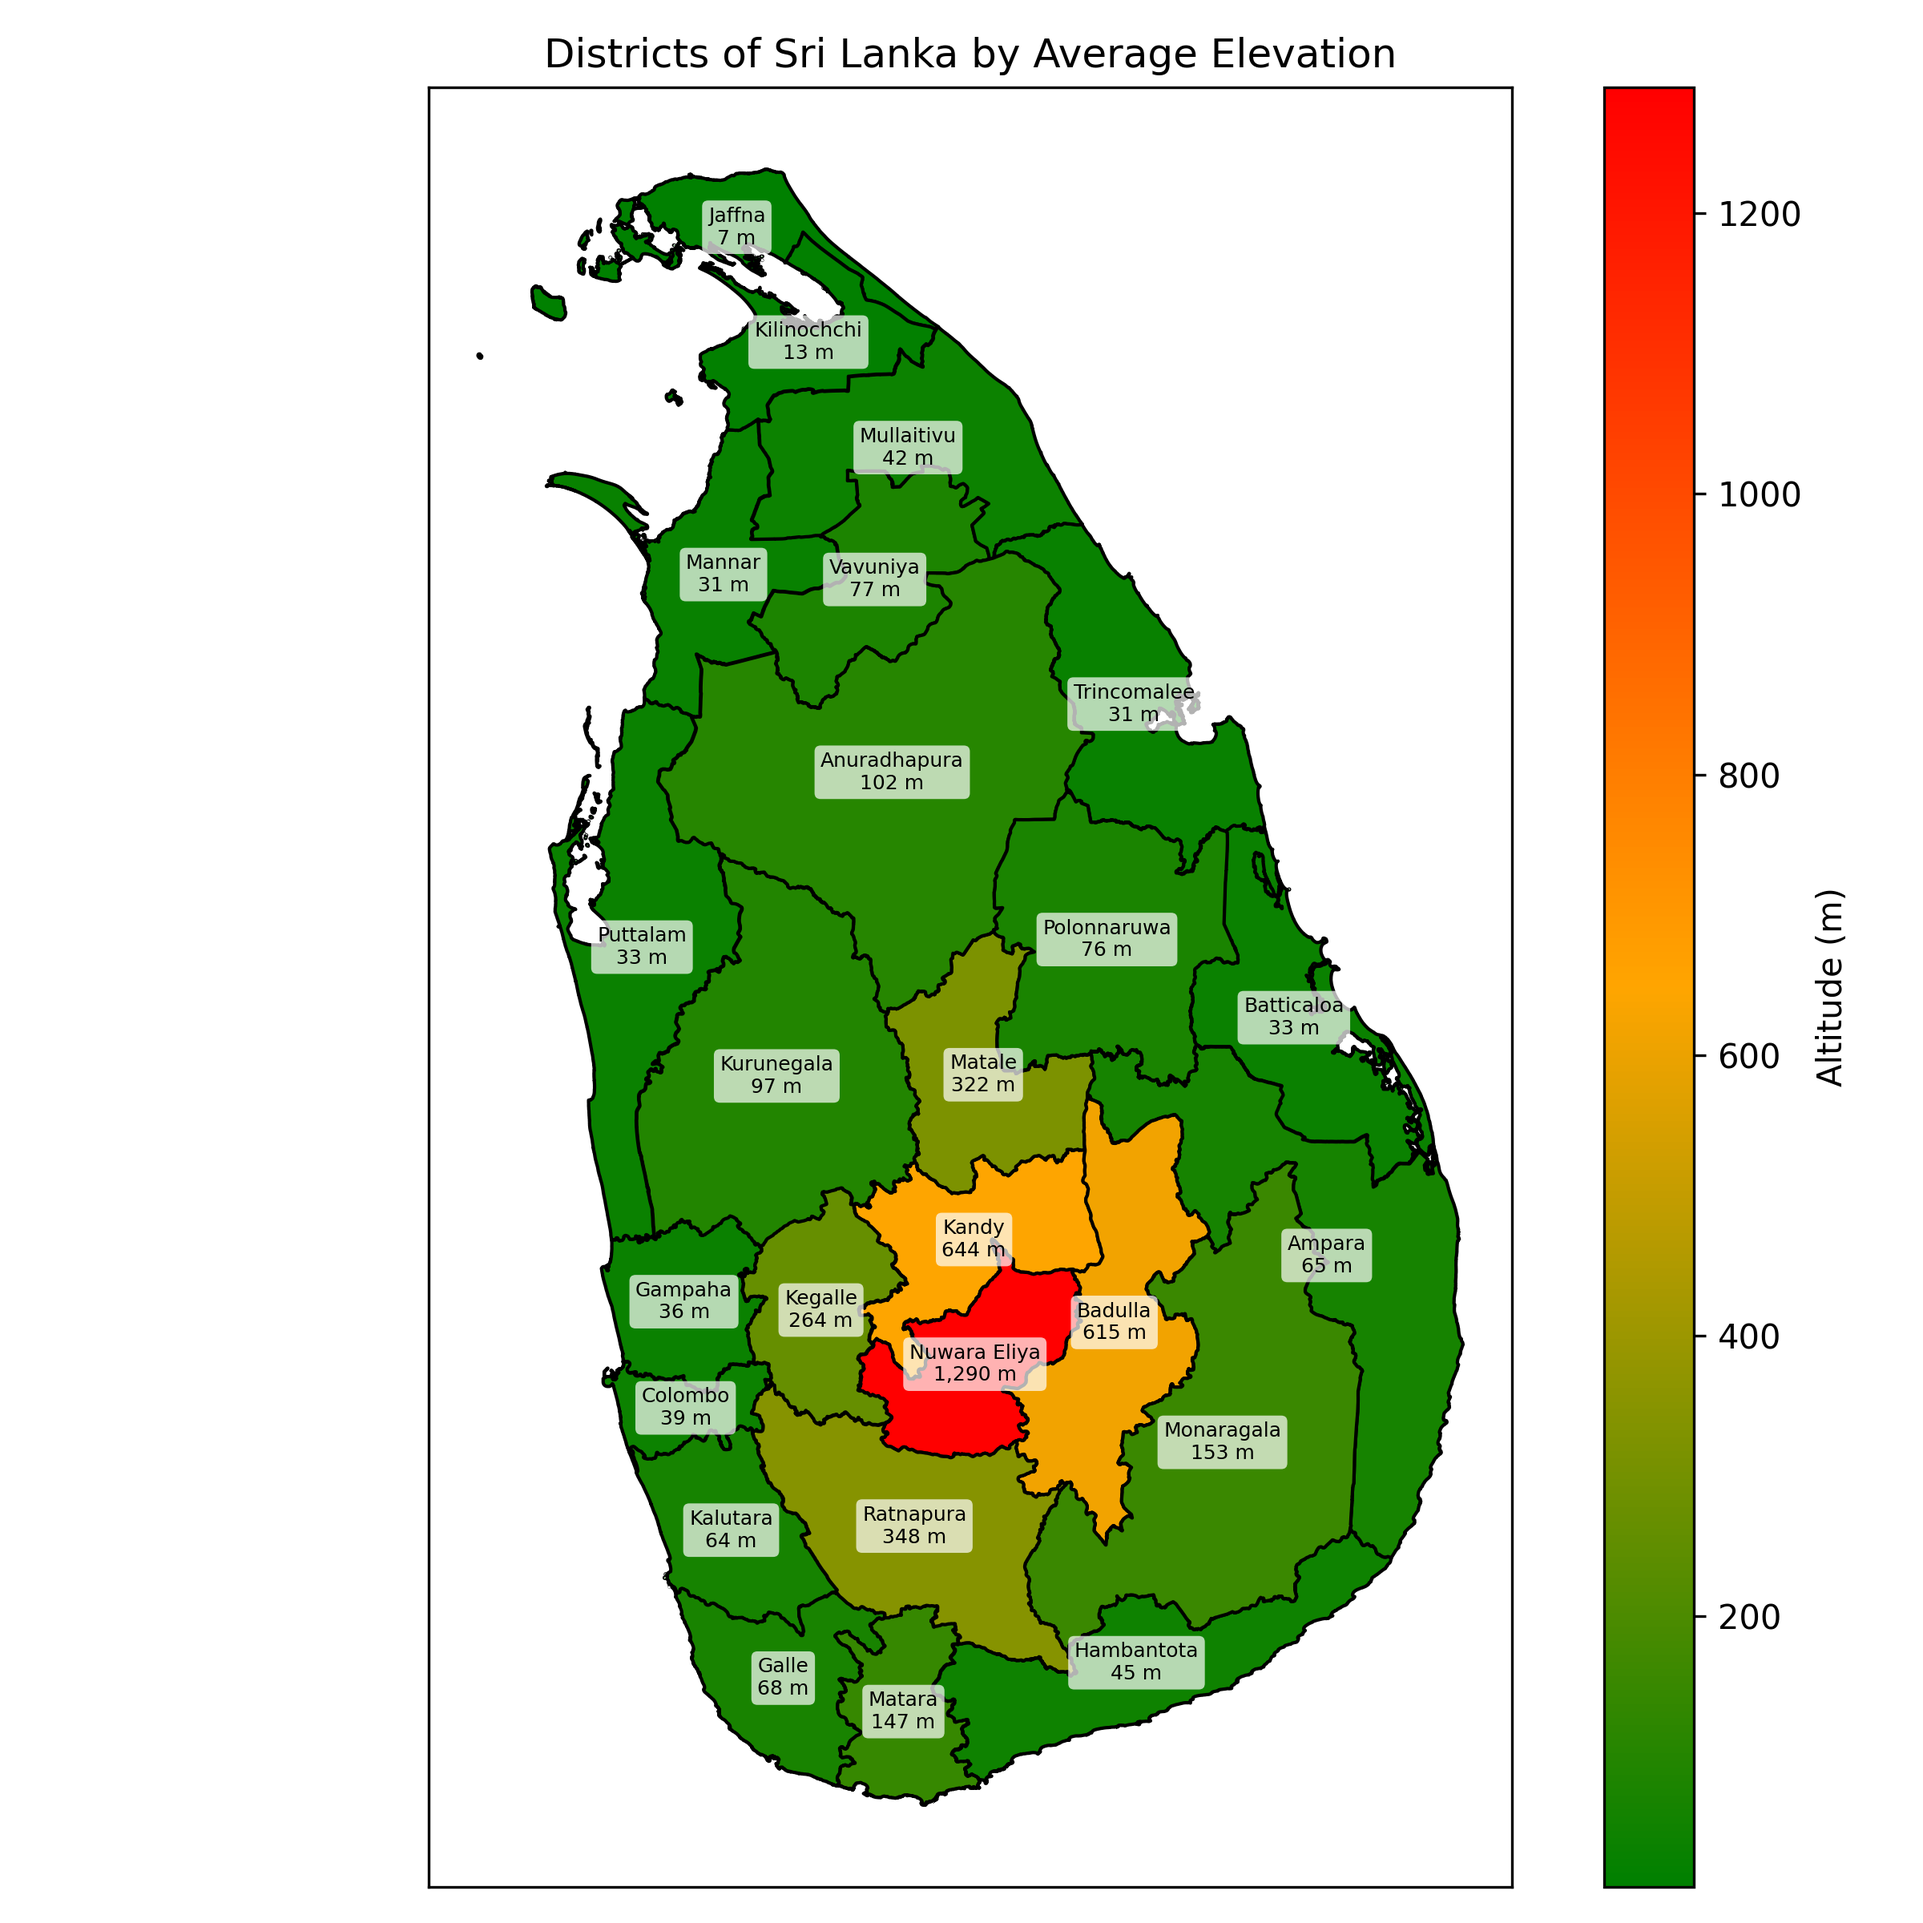
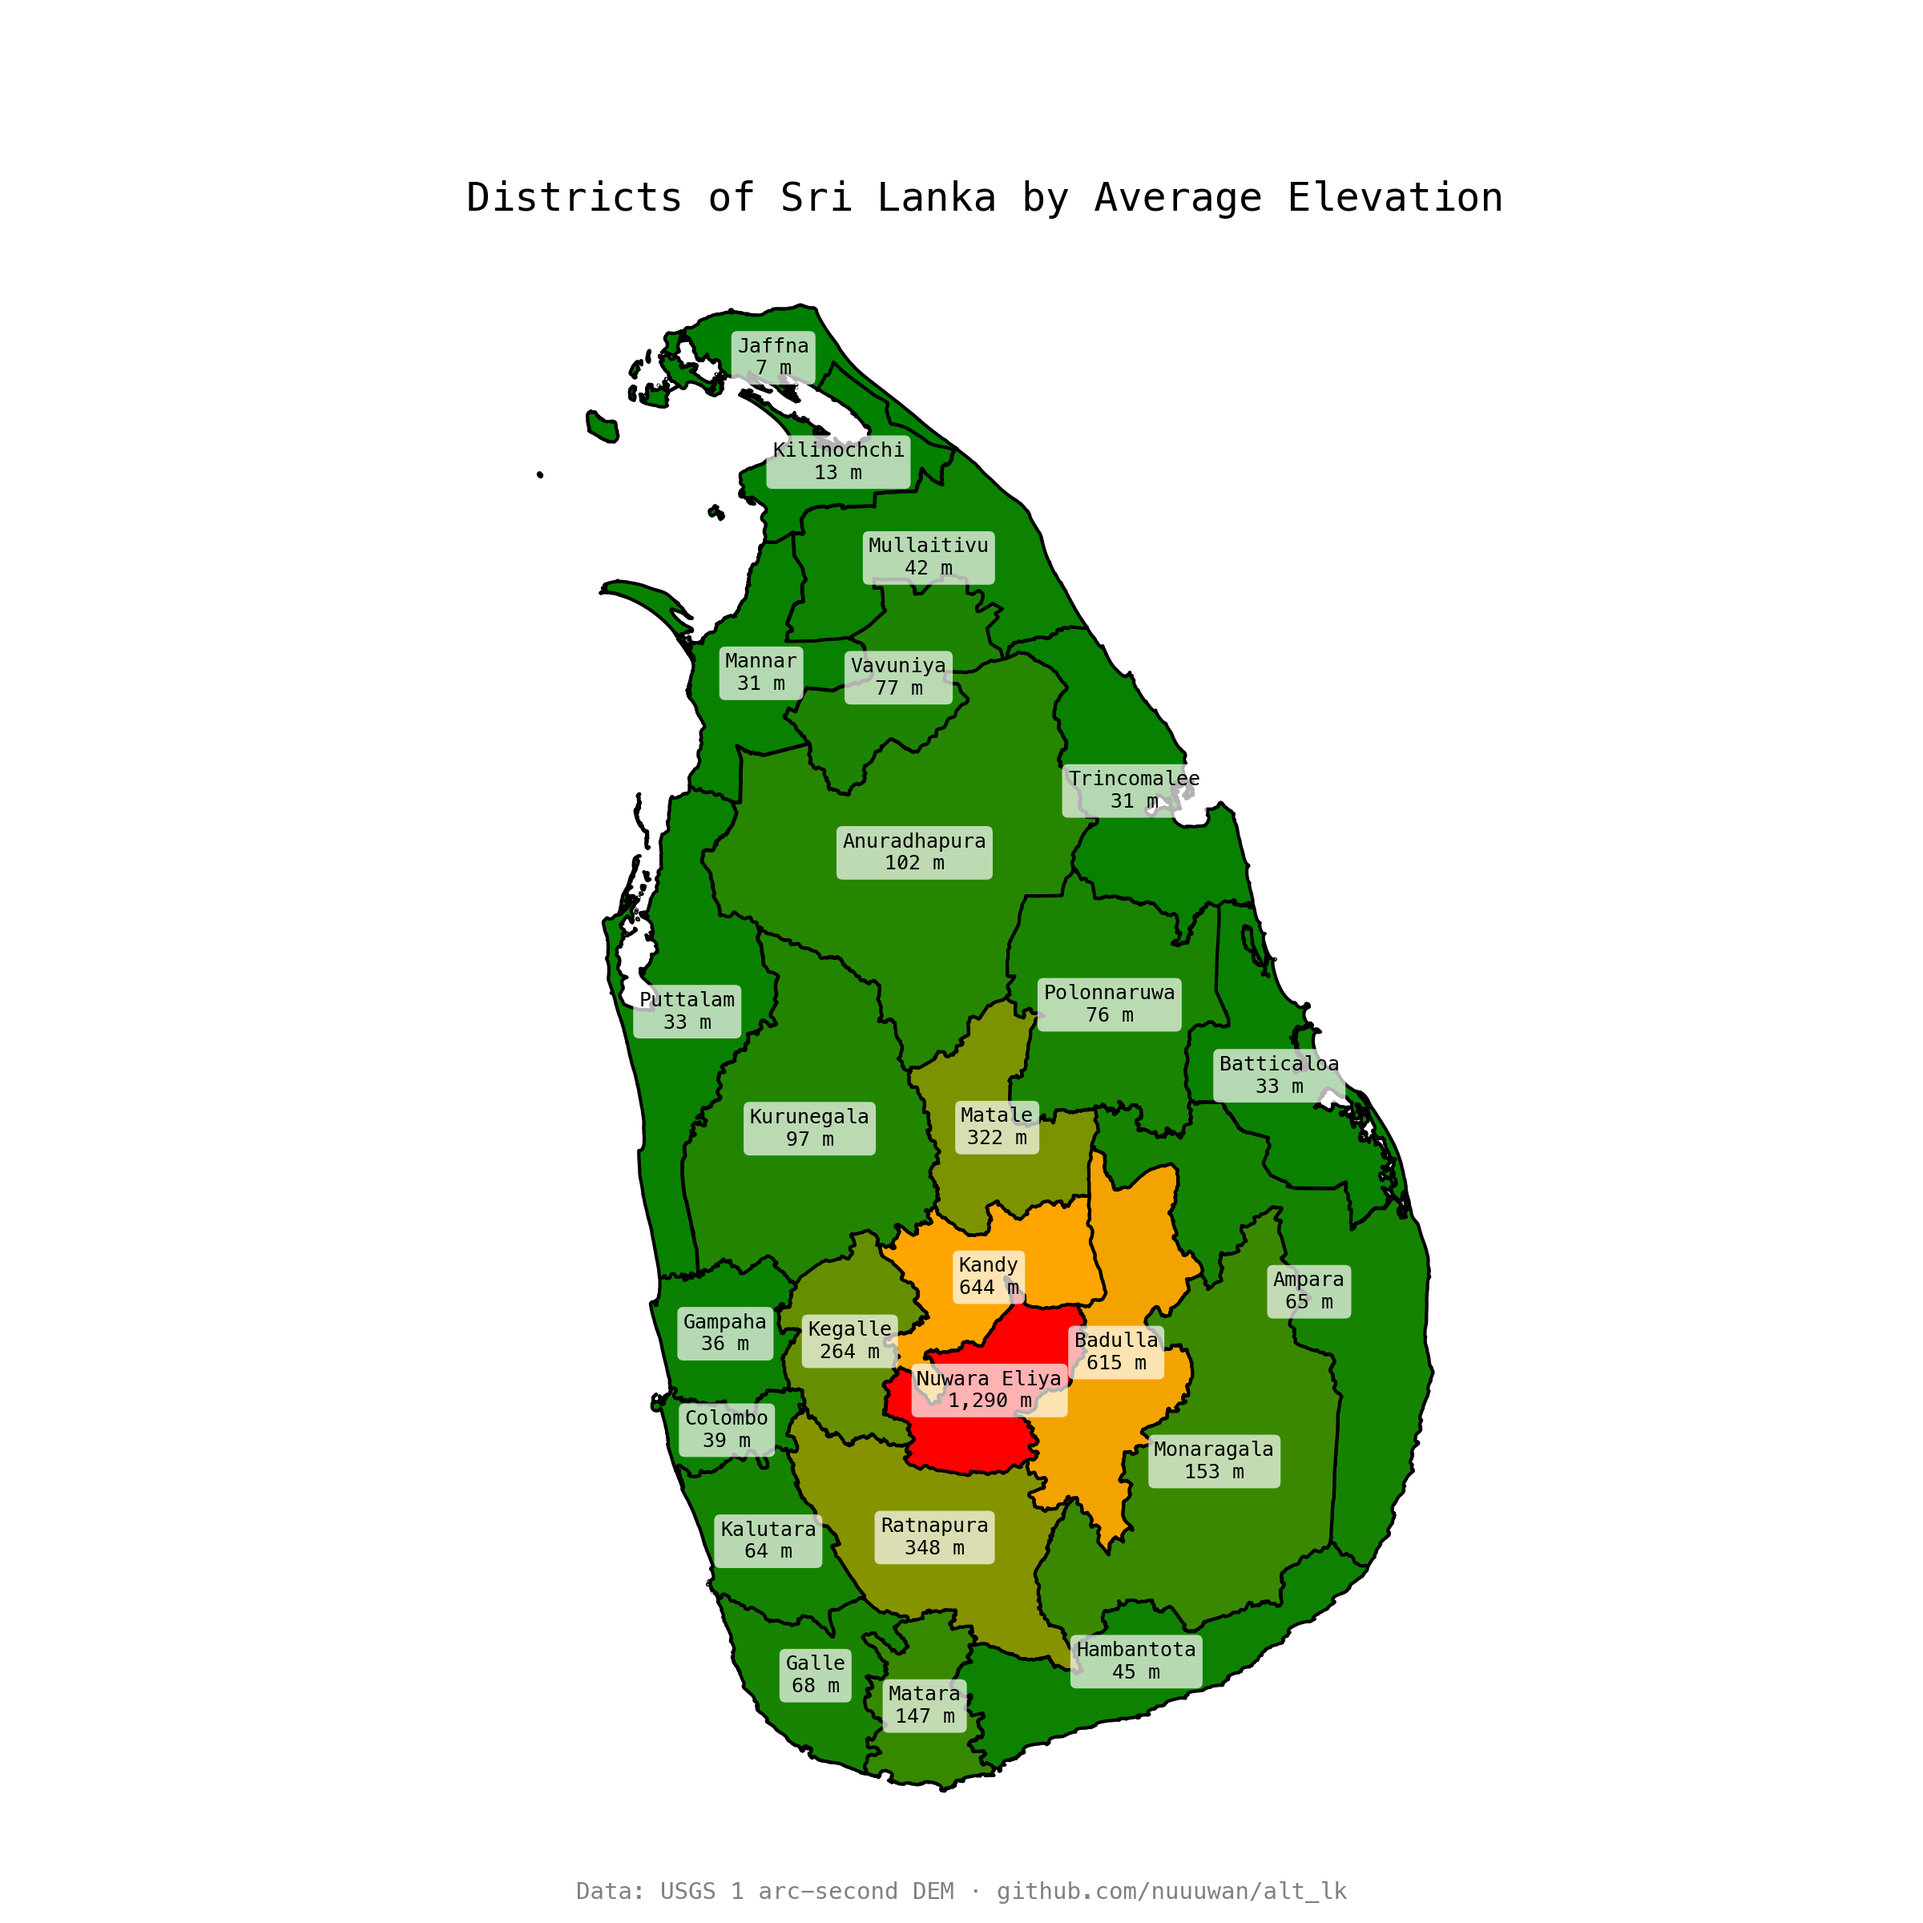
Refactor average altitude visualization: update font settings, remove colorbar, and add data source annotation

diff --git a/examples/average_altitude.py b/examples/average_altitude.py
@@ -2,8 +2,10 @@ import os
 
 import matplotlib.pyplot as plt
 from gig import Ent, EntType
-from matplotlib import cm
+from matplotlib import rcParams
 from matplotlib.colors import LinearSegmentedColormap, Normalize
+
+rcParams["font.family"] = "Menlo"
 
 from alt_lk import Alt, LatLng
 
@@ -91,11 +93,6 @@ def main():
             },
         )
 
-    sm = cm.ScalarMappable(norm=norm, cmap=cmap)
-    sm.set_array([])
-    cbar = fig.colorbar(sm, ax=ax)
-    cbar.set_label("Altitude (m)")
-
     ax.set_title(
         f"{parent_ent_type.name.capitalize()}s of Sri Lanka by Average Elevation"
     )
@@ -104,12 +101,24 @@ def main():
     ax.set_yticks([])
     ax.set_xlabel("")
     ax.set_ylabel("")
+    for spine in ax.spines.values():
+        spine.set_visible(False)
+
+    fig.text(
+        0.5,
+        0.01,
+        "Data: USGS 1 arc-second DEM · github.com/nuuuwan/alt_lk",
+        ha="center",
+        va="bottom",
+        fontsize=7,
+        color="grey",
+    )
 
     image_path = os.path.join(
         "examples",
         f"average_altitude_{parent_ent_type.name}_{child_ent_type.name}.png",
     )
-    plt.tight_layout()
+    fig.subplots_adjust(bottom=0.03)
     plt.savefig(image_path, dpi=300)
     plt.close(fig)
     print(f'Wrote "{image_path}"')
